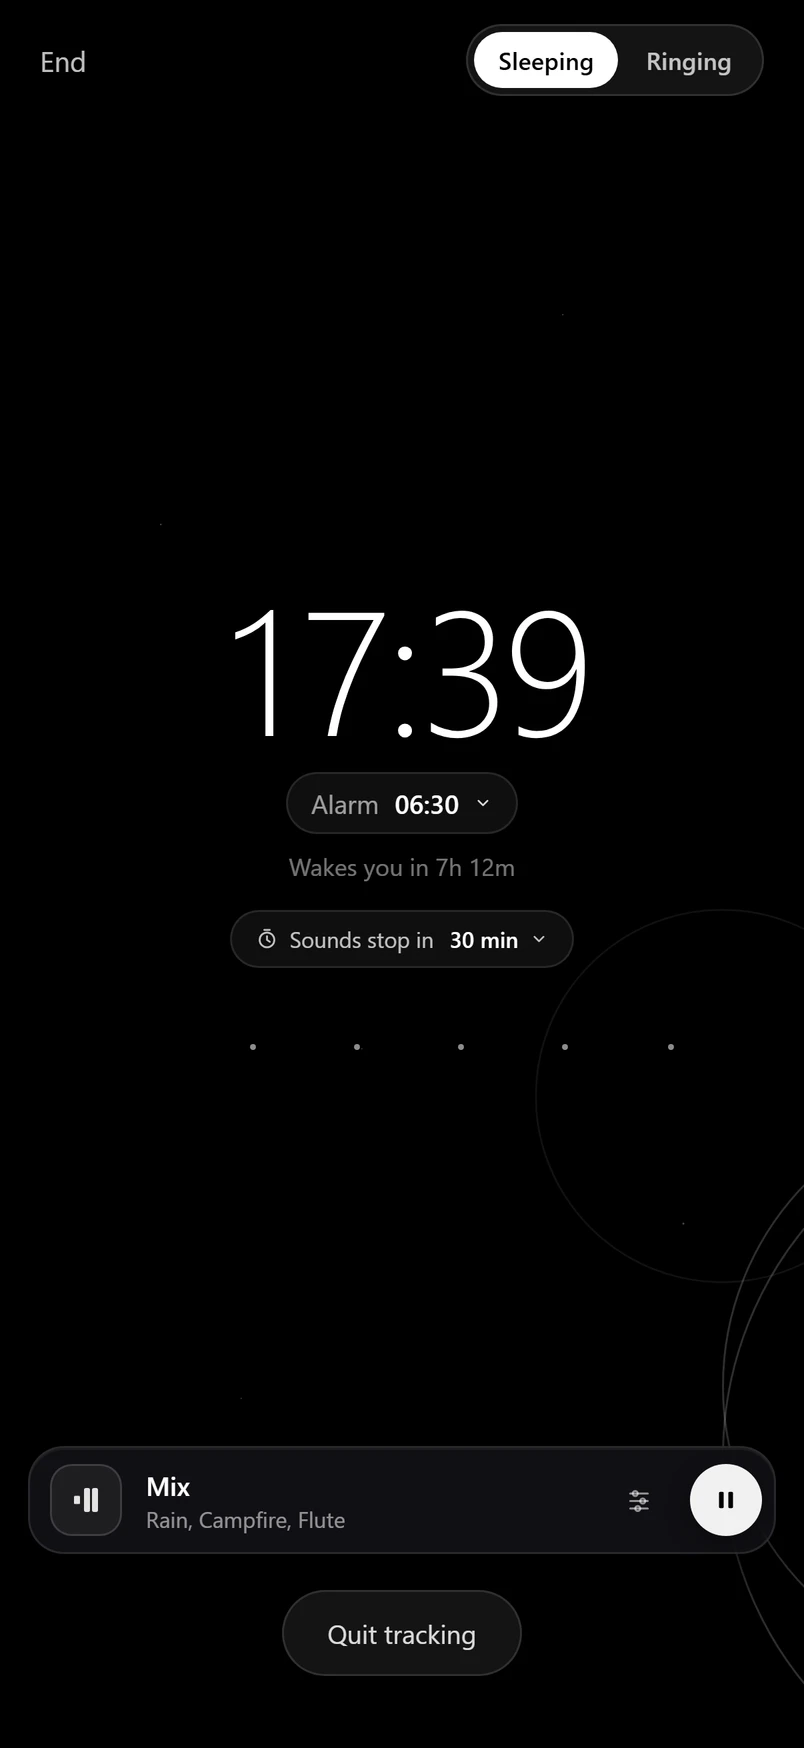
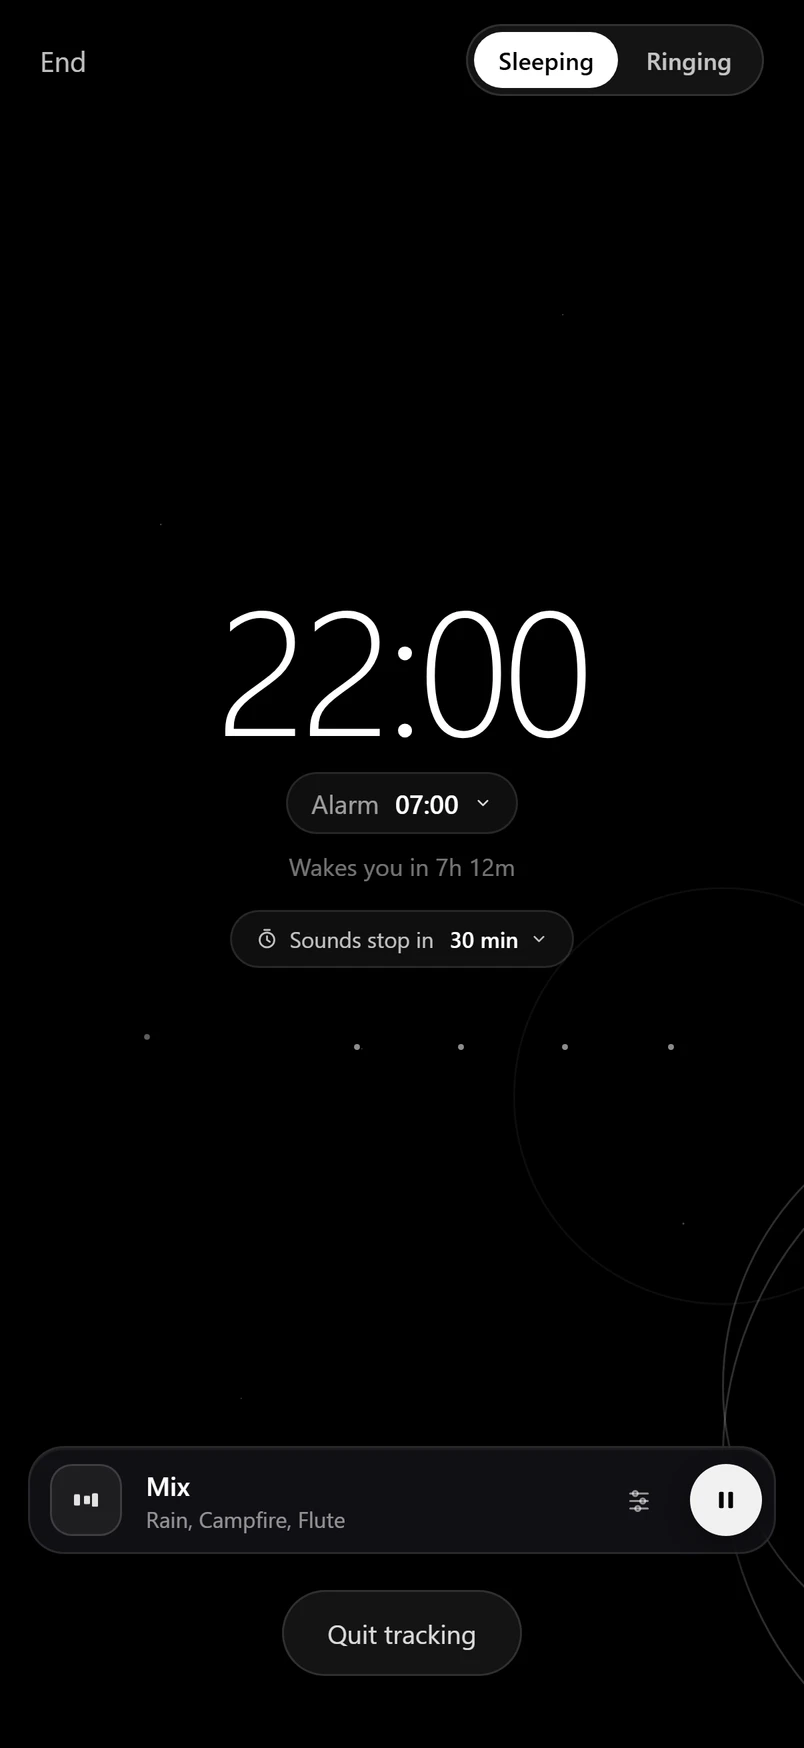
fix: night clock centred in its circle and set to a realistic bedtime
The middle "How it works" circle showed 17:39, the wall-clock time it happened
to be captured at, and the composition sat low in the circle.

Recaptured the tracking screen with the clock frozen to 22:00, a believable time
to start a night's sleep, and recentred the crop so the digits and the alarm and
sound chips sit in the middle of the circle rather than below it.

Changed region(s): [[0.4975, 0.3398, 0.7463, 0.4634], [0.2799, 0.3398, 0.4975, 0.4325], [0.0933, 0.8341, 0.1244, 0.865]]

diff --git a/src/data/content.ts b/src/data/content.ts
@@ -244,7 +244,7 @@ export const how = {
       title: "Put the phone down",
       body: "Start tracking, place the phone face down and let the sounds do their work.",
       shot: "/app/tracking-active.webp",
-      objectPosition: "50% 19%",
+      objectPosition: "50% 40%",
     },
     {
       n: "03",
